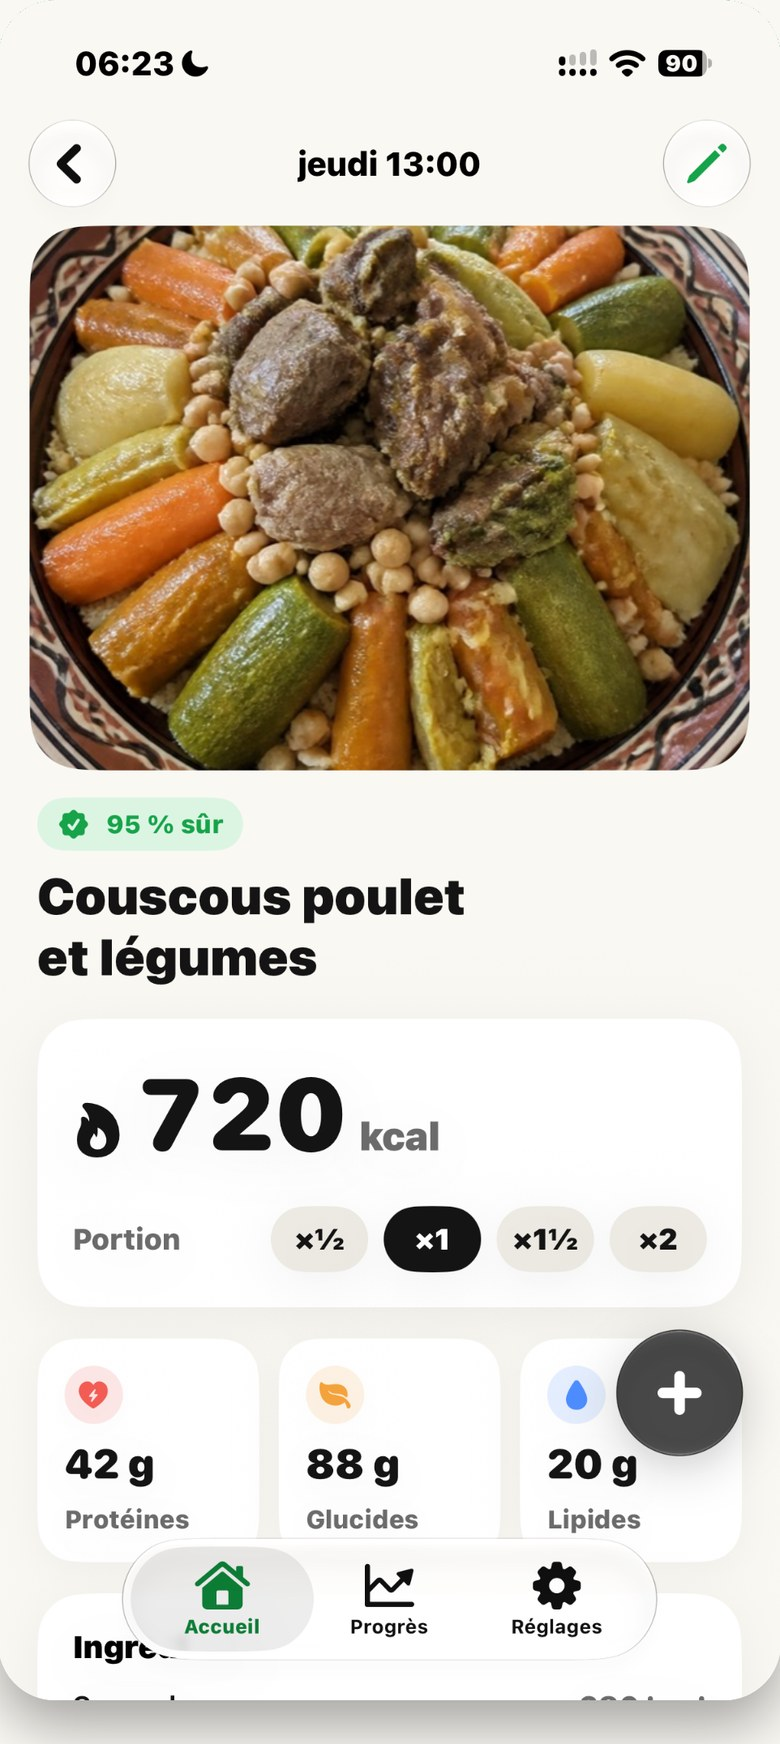
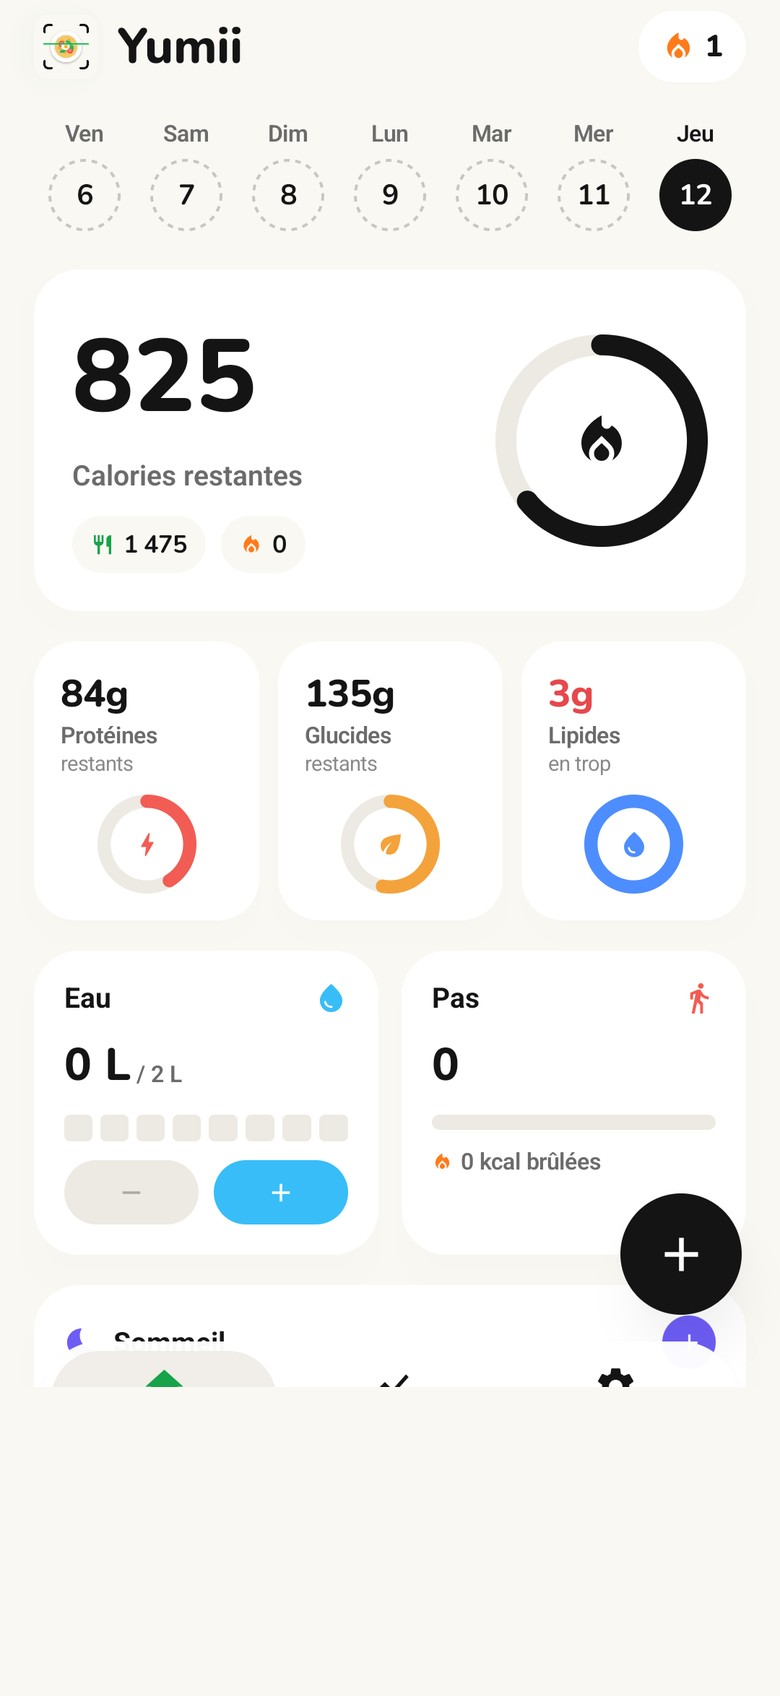
Yumii: use the new Android screenshots (Yumii-images), fitted to the phone frame

diff --git a/script.js b/script.js
@@ -425,8 +425,8 @@ const appsData = {
         kind: 'app',
         category: { fr: 'Application iPhone', en: 'iPhone app', ar: 'تطبيق للآيفون' },
         icon: 'assets/images/yumii-icon.png',
-        screenshot: 'assets/images/yumii-screen1.jpg?v=2',
-        screenshots: ['assets/images/yumii-screen1.jpg?v=2', 'assets/images/yumii-screen2.jpg?v=2', 'assets/images/yumii-screen3.jpg?v=2'],
+        screenshot: 'assets/images/yumii-screen1.jpg?v=3',
+        screenshots: ['assets/images/yumii-screen1.jpg?v=3', 'assets/images/yumii-screen2.jpg?v=3', 'assets/images/yumii-screen3.jpg?v=3'],
         features: { fr: ['Scan par photo', 'Calories et macros', 'Apple Santé'], en: ['Photo scan', 'Calories and macros', 'Apple Health'], ar: ['مسح بالصورة', 'السعرات والعناصر', 'Apple Health'] },
         appStore: null,
         googlePlay: null,

diff --git a/kinto-privacy.html b/kinto-privacy.html
@@ -126,7 +126,7 @@
         </div>
     </footer>
 
-    <script src="script.js?v=7007"></script>
+    <script src="script.js?v=7008"></script>
     <script>
         window.pageTranslations = {
             fr: {

diff --git a/kinto-terms.html b/kinto-terms.html
@@ -147,7 +147,7 @@
         </div>
     </footer>
 
-    <script src="script.js?v=7007"></script>
+    <script src="script.js?v=7008"></script>
     <script>
         window.pageTranslations = {
             fr: {

diff --git a/zikr-delete-account.html b/zikr-delete-account.html
@@ -86,7 +86,7 @@
         </div>
     </footer>
 
-    <script src="script.js?v=7007"></script>
+    <script src="script.js?v=7008"></script>
     <script>
         window.pageTranslations = {
             "fr": {

diff --git a/zikr-privacy.html b/zikr-privacy.html
@@ -95,7 +95,7 @@
         </div>
     </footer>
 
-    <script src="script.js?v=7007"></script>
+    <script src="script.js?v=7008"></script>
     <script>
         window.pageTranslations = {
             fr: {

diff --git a/zikr-terms.html b/zikr-terms.html
@@ -85,7 +85,7 @@
         </div>
     </footer>
 
-    <script src="script.js?v=7007"></script>
+    <script src="script.js?v=7008"></script>
     <script>
         window.pageTranslations = {
             fr: {

diff --git a/clipglot-terms.html b/clipglot-terms.html
@@ -100,7 +100,7 @@
         </div>
     </footer>
 
-    <script src="script.js?v=7007"></script>
+    <script src="script.js?v=7008"></script>
     <script>
         window.pageTranslations = {
     "fr": {

diff --git a/clipglot-privacy.html b/clipglot-privacy.html
@@ -89,7 +89,7 @@
         </div>
     </footer>
 
-    <script src="script.js?v=7007"></script>
+    <script src="script.js?v=7008"></script>
     <script>
         window.pageTranslations = {
     "fr": {

diff --git a/yumii-delete-account.html b/yumii-delete-account.html
@@ -91,7 +91,7 @@
         </div>
     </footer>
 
-    <script src="script.js?v=7007"></script>
+    <script src="script.js?v=7008"></script>
     <script>
         window.pageTranslations = {
     "fr": {

diff --git a/yumii-privacy.html b/yumii-privacy.html
@@ -87,7 +87,7 @@
         </div>
     </footer>
 
-    <script src="script.js?v=7007"></script>
+    <script src="script.js?v=7008"></script>
     <script>
         window.pageTranslations = {
     "fr": {

diff --git a/yumii-terms.html b/yumii-terms.html
@@ -94,7 +94,7 @@
         </div>
     </footer>
 
-    <script src="script.js?v=7007"></script>
+    <script src="script.js?v=7008"></script>
     <script>
         window.pageTranslations = {
     "fr": {

diff --git a/index.html b/index.html
@@ -236,6 +236,6 @@
         </div>
     </dialog>
 
-    <script src="script.js?v=7007"></script>
+    <script src="script.js?v=7008"></script>
 </body>
 </html>
